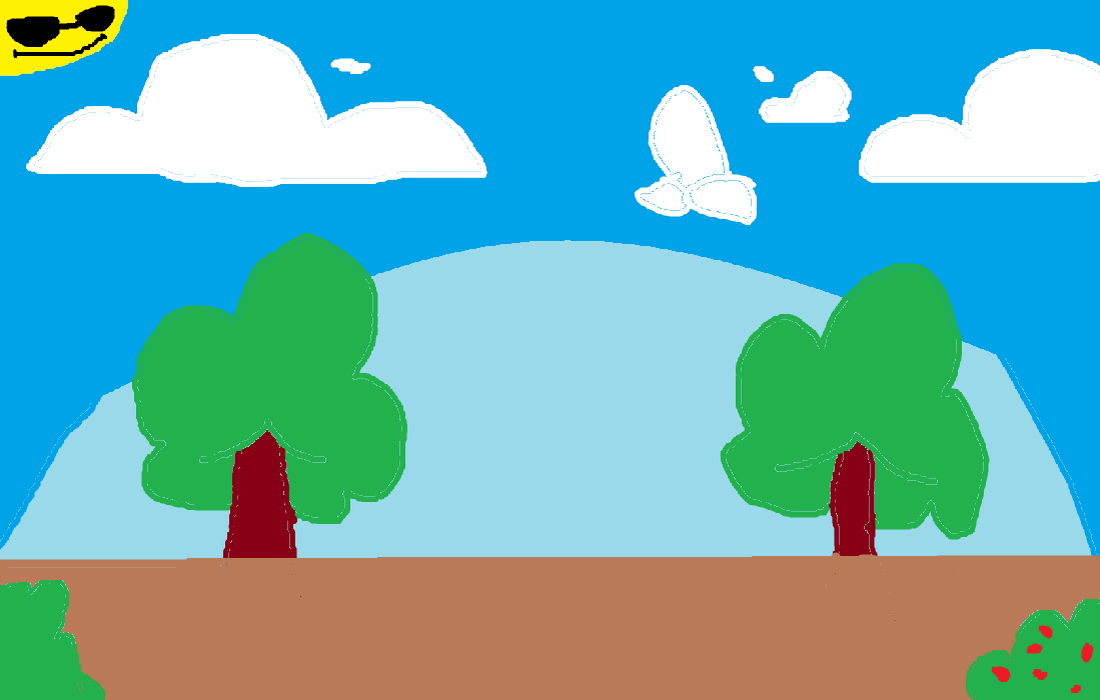
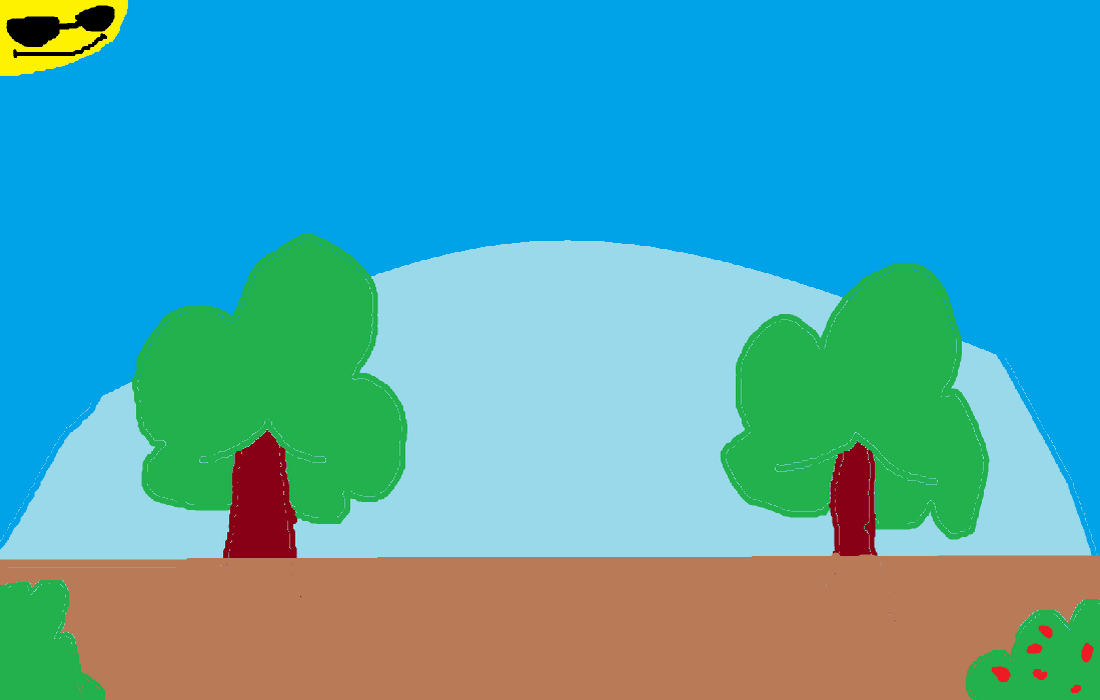
Clouds are animated

diff --git a/src/LibCore/Objects/StageObjects/Cloud.cpp b/src/LibCore/Objects/StageObjects/Cloud.cpp
@@ -1,0 +1,85 @@
+//
+// Created by Gegel85 on 15/08/22
+//
+
+#include "Cloud.hpp"
+#include "../../Resources/Game.hpp"
+
+namespace SpiralOfFate
+{
+	Cloud::Cloud(nlohmann::json &json)
+	{
+		this->_moves = FrameData::loadFile(json["framedata"]);
+		this->_position = {json["x"], json["y"]};
+		this->_team = json["team"];
+		this->_minSpeed = json["minSpeed"];
+		this->_maxSpeed = json["maxSpeed"];
+		this->_minY = json["minY"];
+		this->_maxY = json["maxY"];
+		this->_reload();
+	}
+
+	void Cloud::update()
+	{
+		Object::update();
+
+		auto &data = *this->getCurrentFrameData();
+		auto result = Vector2f{data.offset.x * this->_dir, static_cast<float>(data.offset.y)} + this->_position;
+		auto scale = Vector2f{
+			this->_dir * static_cast<float>(data.size.x) / data.textureBounds.size.x,
+			static_cast<float>(data.size.y) / data.textureBounds.size.y
+		};
+
+		result.y *= -1;
+		result += Vector2f{
+			!this->_direction * data.size.x + data.size.x / -2.f,
+			-static_cast<float>(data.size.y)
+		};
+		result += Vector2f{
+			data.textureBounds.size.x * scale.x / 2,
+			data.textureBounds.size.y * scale.y / 2
+		};
+		result.x += data.size.x;
+		this->_airDrag = {1, 1};
+		if (result.x < -100)
+			this->_refresh();
+	}
+
+	void Cloud::_reload()
+	{
+		std::uniform_int_distribution<size_t> val{0, (this->_moves.size() * 32) - 32};
+		std::uniform_int_distribution<size_t> val2{0, 1};
+		std::uniform_real_distribution<float> val3{this->_minSpeed, this->_maxSpeed};
+		auto rand = val(game->battleRandom);
+
+		this->_action = rand / 32;
+		this->_direction = val2(game->battleRandom);
+		this->_dir = this->_direction ? 1 : -1;
+		this->_speed.x = -val3(game->battleRandom);
+	}
+
+	void Cloud::_refresh()
+	{
+		std::uniform_int_distribution<size_t> val1{this->_minY, this->_maxY};
+		auto &data = *this->getCurrentFrameData();
+		auto result = Vector2f{data.offset.x * this->_dir, static_cast<float>(data.offset.y)};
+		auto scale = Vector2f{
+			this->_dir * static_cast<float>(data.size.x) / data.textureBounds.size.x,
+			static_cast<float>(data.size.y) / data.textureBounds.size.y
+		};
+
+		result.y *= -1;
+		result += Vector2f{
+			!this->_direction * data.size.x + data.size.x / -2.f,
+			-static_cast<float>(data.size.y)
+		};
+		result += Vector2f{
+			data.textureBounds.size.x * scale.x / 2,
+			data.textureBounds.size.y * scale.y / 2
+		};
+
+		this->_reload();
+		this->_position.x = 1200 - result.x + data.size.x;
+		this->_position.y = val1(game->battleRandom);
+	}
+}

diff --git a/src/LibCore/Scenes/InGame.cpp b/src/LibCore/Scenes/InGame.cpp
@@ -22,7 +22,8 @@
 #include "PracticeInGame.hpp"
 #include "../Utils.hpp"
 #include "../Resources/version.h"
-#include "Objects/StageObject.hpp"
+#include "Objects/StageObjects/StageObject.hpp"
+#include "Objects/StageObjects/Cloud.hpp"
 
 unsigned getMagic()
 {
@@ -78,30 +79,8 @@ namespace SpiralOfFate
 		game->battleMgr = std::make_unique<BattleManager>(
 			BattleManager::StageParams{
 				stage.imagePath,
-				[&stage]{
-					if (stage.objectPath.empty())
-						return std::vector<IObject *>{};
-
-					std::ifstream stream{stage.objectPath};
-					nlohmann::json json;
-					std::vector<IObject *> objects;
-
-					if (stream.fail()) {
-						game->logger.error("Failed to open stage object file: " + stage.objectPath + ": " + strerror(errno));
-						return std::vector<IObject *>{};
-					}
-
-					try {
-						stream >> json;
-						for (auto &obj : json)
-							objects.push_back(new StageObject(obj));
-						return objects;
-					} catch (std::exception &e) {
-						game->logger.error("Error while loading objects: " + std::string(e.what()));
-						for (auto object : objects)
-							delete object;
-					}
-					return std::vector<IObject *>{};
+				[&stage, this]{
+					return this->_generateStageObjects(stage);
 				},
 				[&platforms]{
 					std::vector<Platform *> objects;
@@ -606,5 +585,40 @@ namespace SpiralOfFate
 		stream.write(reinterpret_cast<char *>(&rightChrSer), 8);
 		stream.write(reinterpret_cast<char *>(rightInputs.data()), rightInputs.size() * sizeof(Character::ReplayData));
 		game->logger.info(std::string(buf2) + " created.");
+	}
+
+	std::vector<IObject *> InGame::_generateStageObjects(const StageEntry &stage)
+	{
+
+		if (stage.objectPath.empty())
+			return std::vector<IObject *>{};
+
+		std::ifstream stream{stage.objectPath};
+		nlohmann::json json;
+		std::vector<IObject *> objects;
+
+		if (stream.fail()) {
+			game->logger.error("Failed to open stage object file: " + stage.objectPath + ": " + strerror(errno));
+			return {};
+		}
+
+		try {
+			stream >> json;
+			for (auto &obj : json) {
+				switch (obj["class"].get<int>()) {
+				case 1:
+					objects.push_back(new Cloud(obj));
+					break;
+				default:
+					objects.push_back(new StageObject(obj));
+				}
+			}
+			return objects;
+		} catch (std::exception &e) {
+			game->logger.error("Error while loading objects: " + std::string(e.what()));
+			for (auto object : objects)
+				delete object;
+		}
+		return {};
 	}
 }

diff --git a/src/LibCore/Scenes/PracticeInGame.cpp b/src/LibCore/Scenes/PracticeInGame.cpp
@@ -8,7 +8,7 @@
 #include "../Resources/PracticeBattleManager.hpp"
 #include "../Logger.hpp"
 #include "TitleScreen.hpp"
-#include "Objects/StageObject.hpp"
+#include "Objects/StageObjects/StageObject.hpp"
 
 namespace SpiralOfFate
 {
@@ -18,30 +18,8 @@ namespace SpiralOfFate
 		this->_manager = new PracticeBattleManager(
 			BattleManager::StageParams{
 				stage.imagePath,
-				[&stage]{
-					if (stage.objectPath.empty())
-						return std::vector<IObject *>{};
-
-					std::ifstream stream{stage.objectPath};
-					nlohmann::json json;
-					std::vector<IObject *> objects;
-
-					if (stream.fail()) {
-						game->logger.error("Failed to open stage object file: " + stage.objectPath + ": " + strerror(errno));
-						return std::vector<IObject *>{};
-					}
-
-					try {
-						stream >> json;
-						for (auto &obj : json)
-							objects.push_back(new StageObject(obj));
-						return objects;
-					} catch (std::exception &e) {
-						game->logger.error("Error while loading objects: " + std::string(e.what()));
-						for (auto object : objects)
-							delete object;
-					}
-					return std::vector<IObject *>{};
+				[&stage, this]{
+					return this->_generateStageObjects(stage);
 				},
 				[&platforms]{
 					std::vector<Platform *> objects;

diff --git a/src/LibCore/Objects/StageObjects/Cloud.hpp b/src/LibCore/Objects/StageObjects/Cloud.hpp
@@ -1,0 +1,29 @@
+//
+// Created by andgel on 15/08/22
+//
+
+#ifndef SOFGV_CLOUD_HPP
+#define SOFGV_CLOUD_HPP
+
+
+#include "../Object.hpp"
+
+namespace SpiralOfFate
+{
+	class Cloud : public Object {
+	protected:
+		float _minSpeed;
+		float _maxSpeed;
+		unsigned _minY;
+		unsigned _maxY;
+		void _reload();
+		void _refresh();
+
+	public:
+		Cloud(nlohmann::json &json);
+		void update() override;
+	};
+}
+
+
+#endif //SOFGV_CLOUD_HPP

diff --git a/src/LibCore/Scenes/InGame.hpp b/src/LibCore/Scenes/InGame.hpp
@@ -60,6 +60,7 @@ namespace SpiralOfFate
 		void _renderMoveList(Character *chr, const std::string &title) const;
 		void _moveListUpdate(InputStruct input);
 		void _calculateMoveListOrder();
+		std::vector<IObject *> _generateStageObjects(const struct StageEntry &stage);
 
 		InGame(const GameParams &params);
 

diff --git a/src/LibCore/Objects/StageObjects/StageObject.cpp b/src/LibCore/Objects/StageObjects/StageObject.cpp
@@ -10,4 +10,6 @@ SpiralOfFate::StageObject::StageObject(nlohmann::json &json)
 	this->_action = json["action"];
 	this->_position = {json["x"], json["y"]};
 	this->_team = json["team"];
+	this->_direction = json["dir"];
+	this->_dir = this->_direction ? 1 : -1;
 }

diff --git a/src/LibCore/Objects/StageObjects/StageObject.hpp b/src/LibCore/Objects/StageObjects/StageObject.hpp
@@ -6,8 +6,8 @@
 #define SOFGV_STAGEOBJECT_HPP
 
 
-#include <nlohmann/json.hpp>
-#include "Object.hpp"
+#include "nlohmann/json.hpp"
+#include "../Object.hpp"
 
 namespace SpiralOfFate
 {
